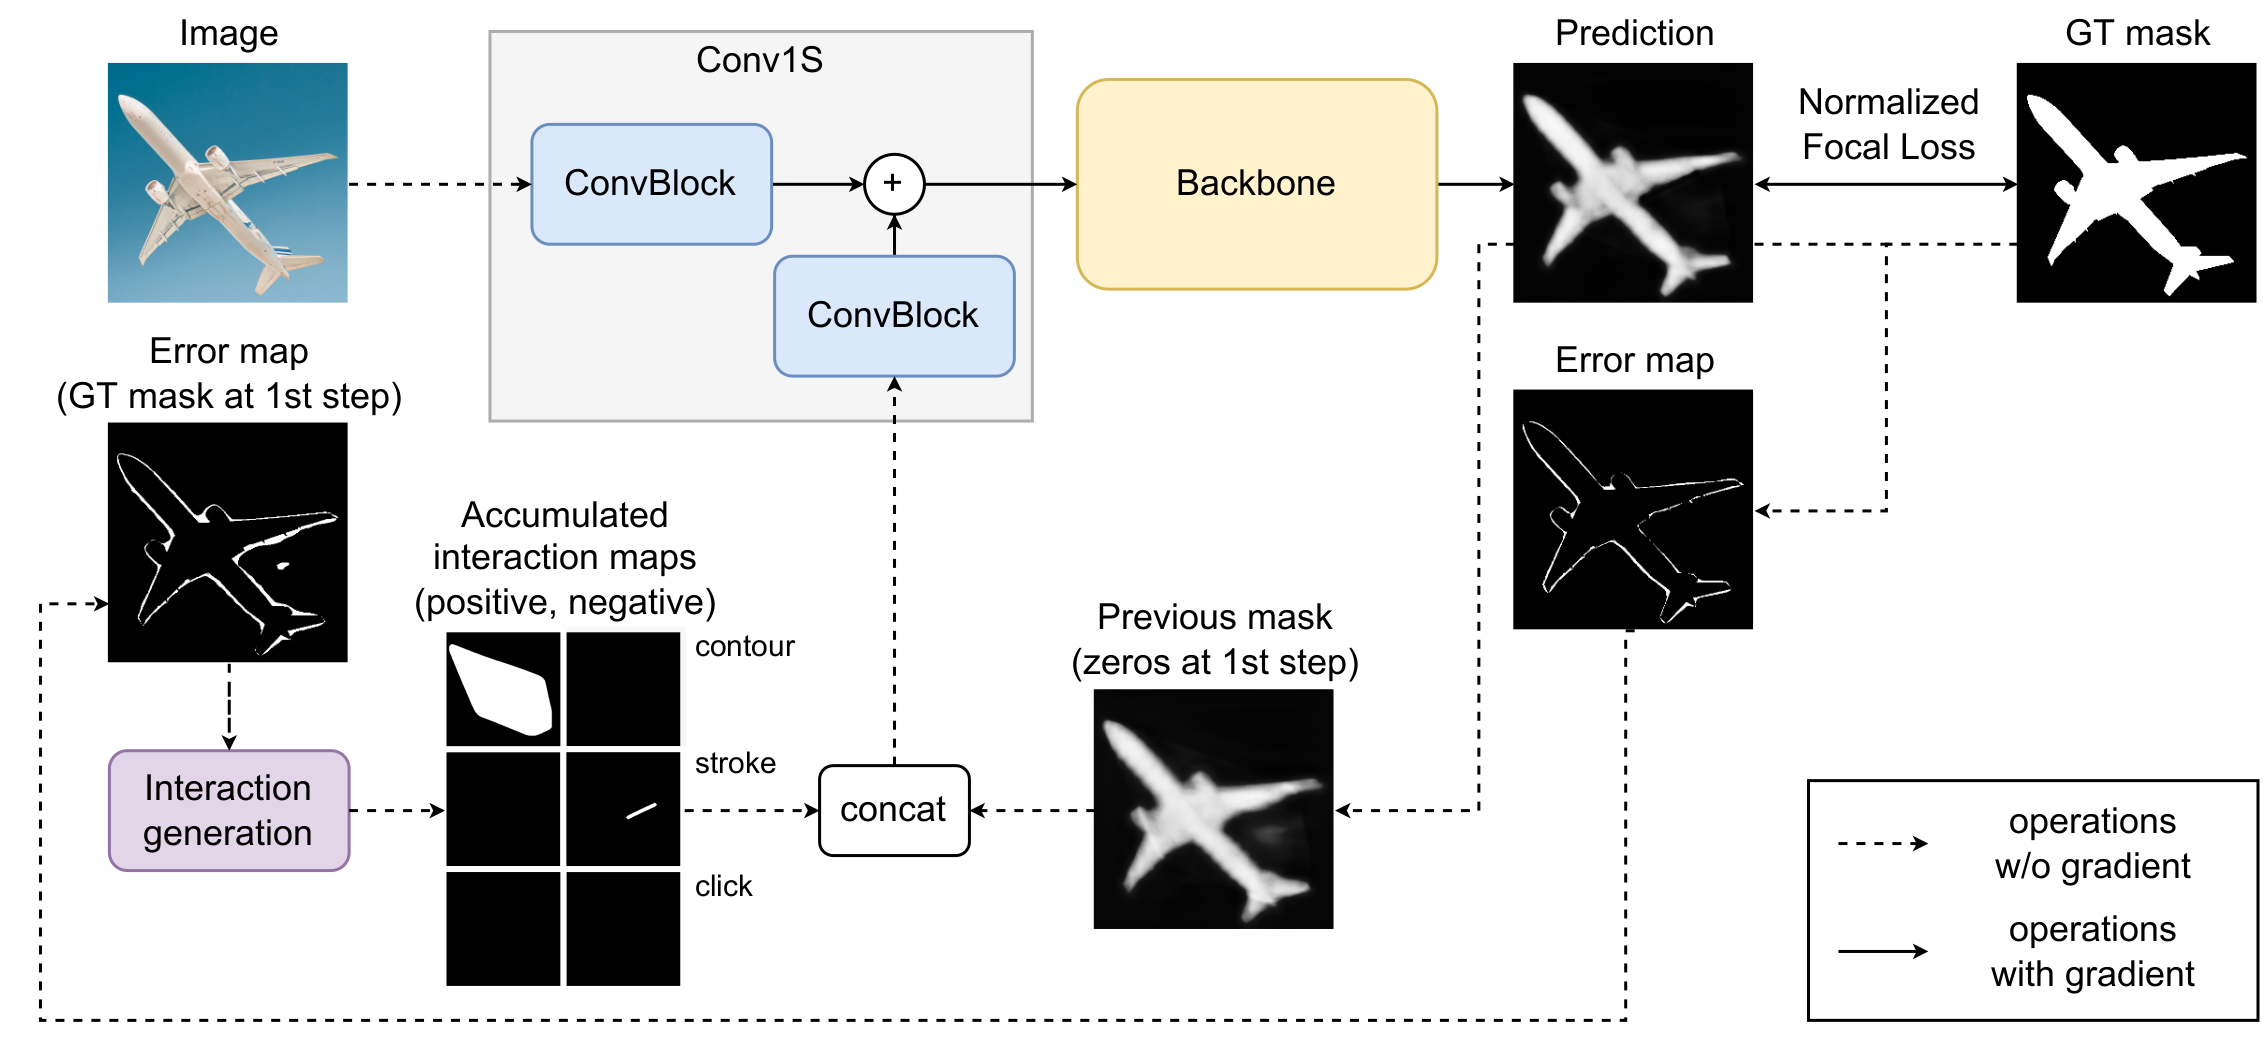
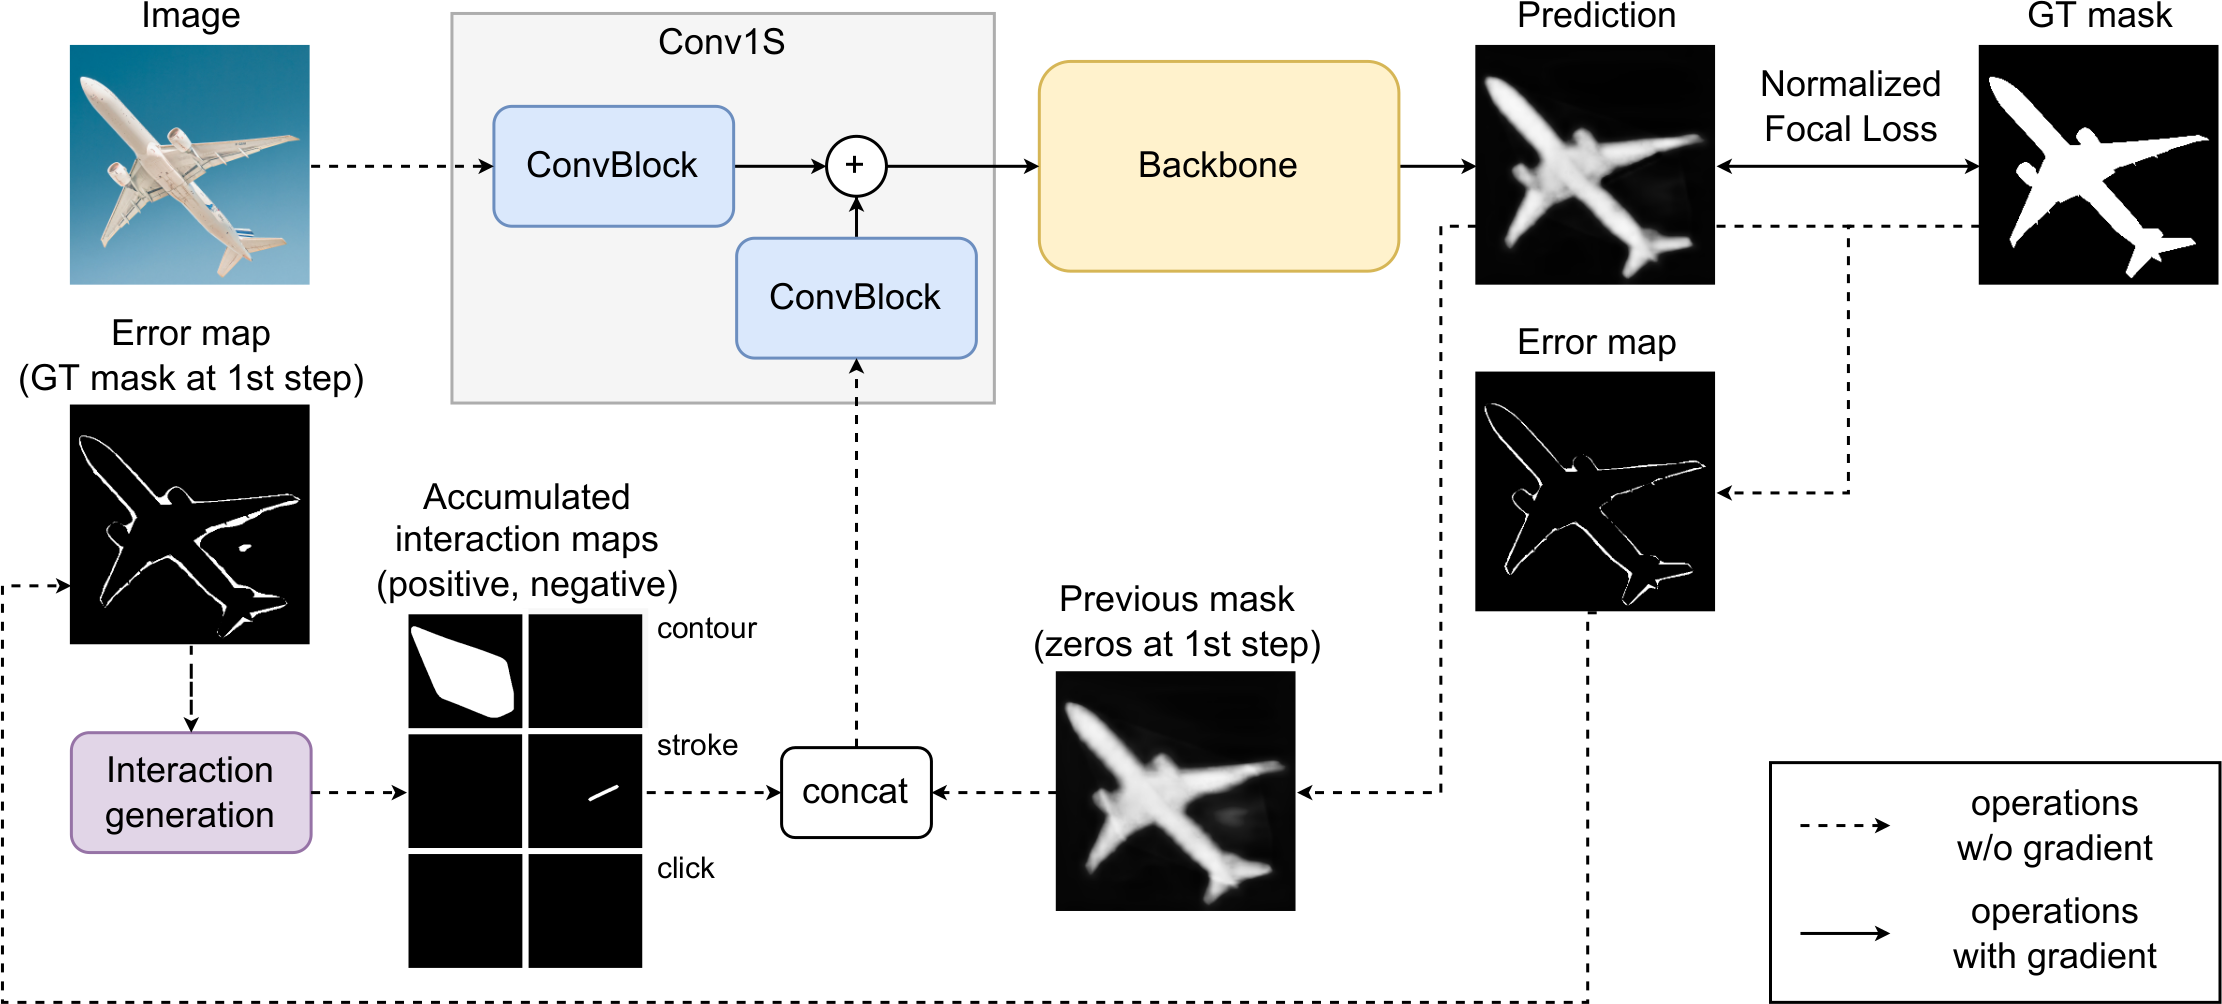
Update method scheme and center it

Changed region(s): [[0.0, 0.0, 1.0, 1.0], [0.7763, 0.741, 1.0, 1.0]]

diff --git a/docs/index.html b/docs/index.html
@@ -208,9 +208,12 @@
       <br>
       <br>
     <div class="row">
-      <div class="offset-lg-2 col-lg-8 text-white">
-        <img class="img-fluid mb-3" src="static/images/method_scheme.png" alt="" width='80%'>
-      </div>
+        <center>
+          <div class="col-lg-8 text-white">
+            <img class="img-fluid mb-3" src="static/images/method_scheme.png" alt="" width='80%'>
+          </div>
+        </center>
+
     </div>
 </div>
 </section>
